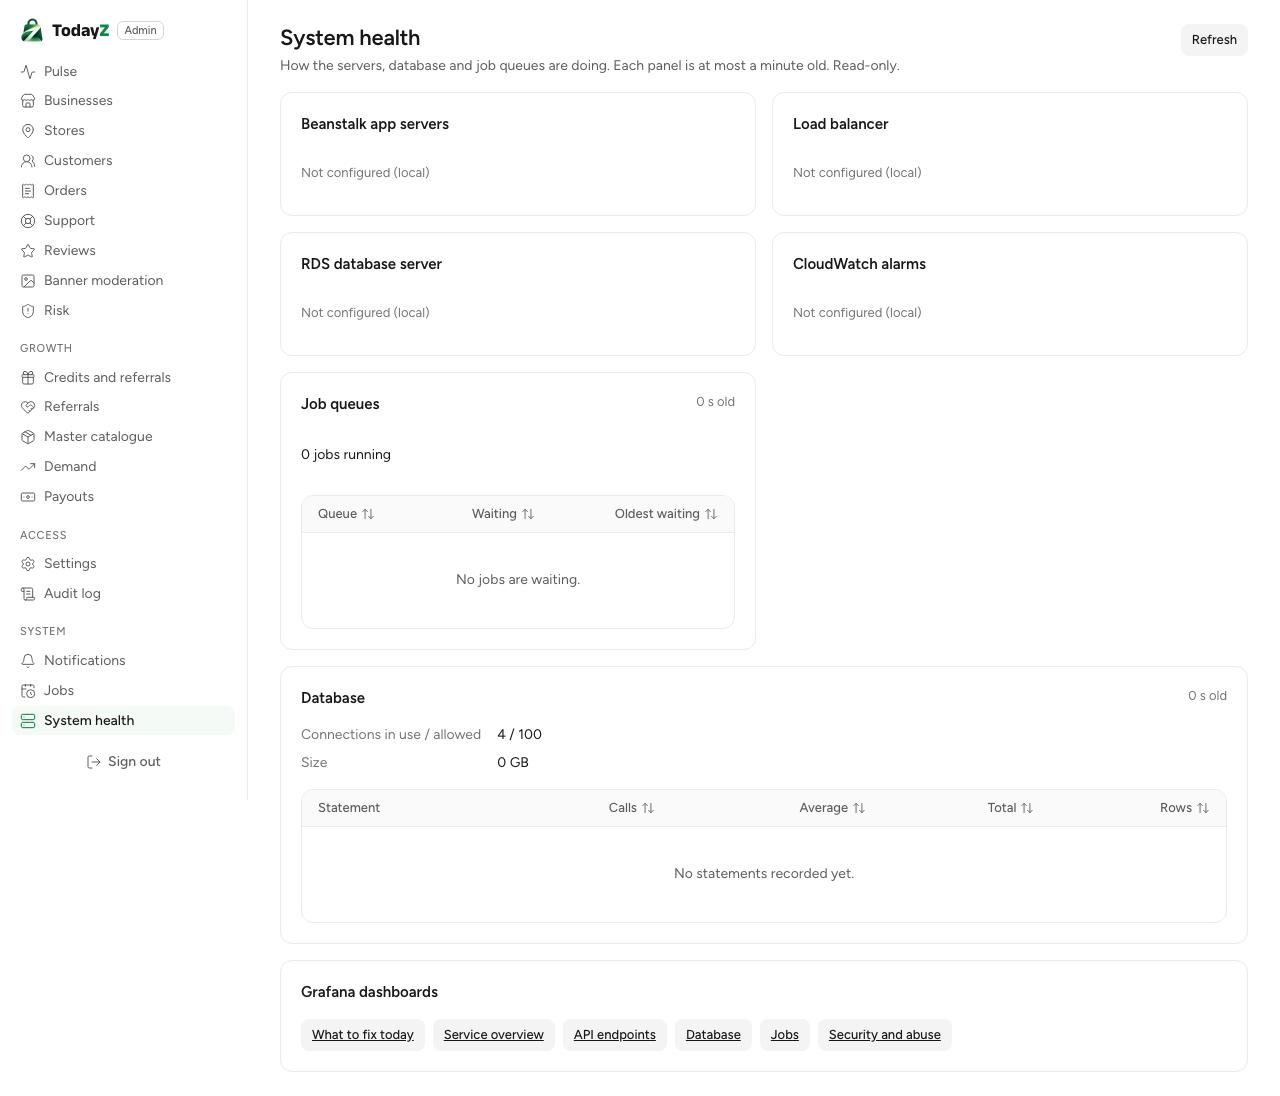
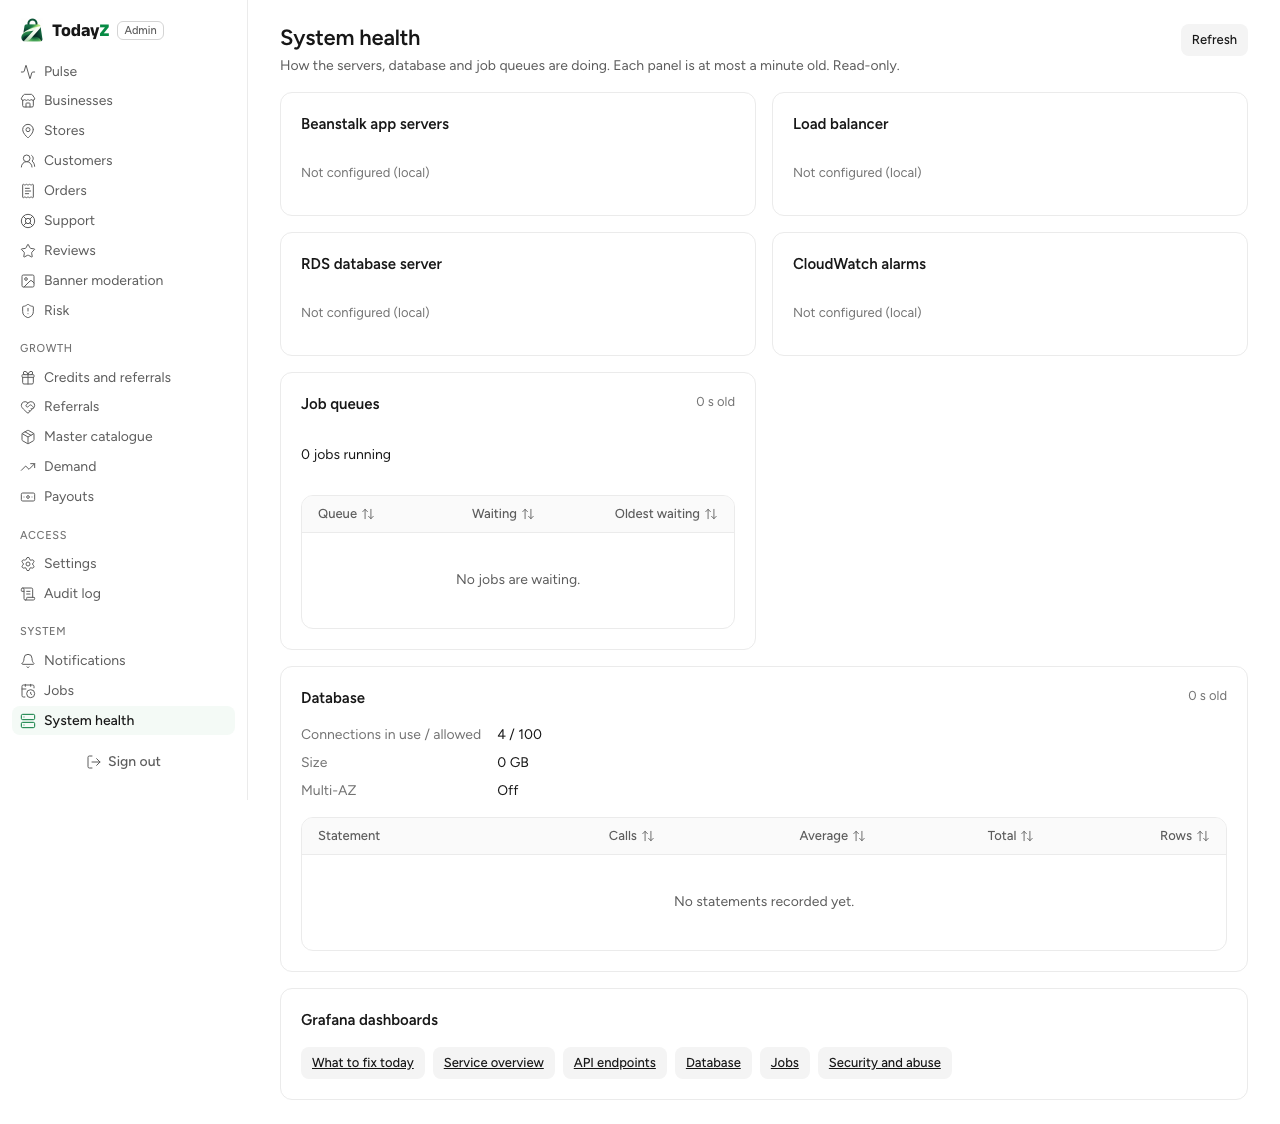
W3-15: REPORT.md; local Multi-AZ off asserted in unit and e2e (fakes now match the API)

diff --git a/admin/src/system/system.test.tsx b/admin/src/system/system.test.tsx
@@ -6,7 +6,7 @@ import { json, renderAt, type Handler } from '../test/render';
 
 const OLD = '2026-10-25T06:29:15Z';
 
-/** What `GET /v1/admin/system` answers locally: no AWS, the database and River read for real. */
+/** What `GET /v1/admin/system` answers locally: no AWS, the database and River read for real, Multi-AZ off (one server). */
 function local(over: Partial<AdminSystem> = {}): AdminSystem {
   const off = { status: 'not_configured' as const, errorClass: null, fetchedAt: NOW };
   return {
@@ -23,7 +23,7 @@ function local(over: Partial<AdminSystem> = {}): AdminSystem {
       connections: 12,
       maxConnections: 100,
       sizeBytes: 3 * 1024 ** 3,
-      multiAz: null,
+      multiAz: false,
       statementsStatus: 'ok',
       statements: [{ query: 'SELECT * FROM orders WHERE store_id = $1', calls: 1200, meanMs: 2.4, totalMs: 2880, rows: 9600 }],
     },
@@ -48,7 +48,9 @@ describe('A-22 system health', () => {
     const db = await panel('Database');
     expect(within(db).getByText('45 s old')).toBeInTheDocument();
     expect(within(db).getByText('12 / 100')).toBeInTheDocument();
-    expect(within(db).queryByText('Multi-AZ')).not.toBeInTheDocument();
+    // SC-OPS-01: off is said as a fact, not a warning.
+    expect(within(db).getByText('Multi-AZ').nextElementSibling).toHaveTextContent('Off');
+    expect(within(db).queryByRole('alert')).not.toBeInTheDocument();
     const sql = within(db).getByRole('table', { name: 'Top 10 SQL statements by total time' });
     expect(within(sql).getByText('SELECT * FROM orders WHERE store_id = $1')).toBeInTheDocument();
     expect(within(sql).getByText('1,200')).toBeInTheDocument();
@@ -122,12 +124,15 @@ describe('A-22 system health', () => {
           ...base,
           awsConfigured: true,
           rds: { ...base.rds, status: 'error', errorClass: 'AccessDenied' },
-          database: { ...base.database, statementsStatus: 'not_installed', statements: [] },
+          database: { ...base.database, multiAz: null, statementsStatus: 'not_installed', statements: [] },
         }),
       ],
     });
     expect(within(within(await panel('RDS database server')).getByRole('alert')).getByText('(AccessDenied)')).toBeInTheDocument();
-    expect(within(await panel('Database')).getByText('Top statements are off: the pg_stat_statements extension is not installed.')).toBeInTheDocument();
+    const db = await panel('Database');
+    expect(within(db).getByText('Top statements are off: the pg_stat_statements extension is not installed.')).toBeInTheDocument();
+    // With RDS unreadable the API cannot say, so the row is left out.
+    expect(within(db).queryByText('Multi-AZ')).not.toBeInTheDocument();
   });
 
   it('refreshes on Refresh', async () => {

diff --git a/admin/e2e/system.spec.ts b/admin/e2e/system.spec.ts
@@ -31,6 +31,9 @@ for (const role of ['admin', 'super_admin']) {
       await expect(main.getByRole('region', { name }).getByText('Not configured (local)')).toBeVisible();
     }
     await expect(main.getByRole('region', { name: 'Database' }).getByText('4 / 100')).toBeVisible();
+    // Multi-AZ off is a fact locally (one server), not a warning.
+    await expect(main.getByRole('region', { name: 'Database' }).getByRole('definition').filter({ hasText: /^Off$/ })).toBeVisible();
+    await expect(main.getByRole('alert')).toHaveCount(0);
     await expect(main.getByRole('region', { name: 'Job queues' })).toBeVisible();
     await expect(main.getByRole('region', { name: 'Grafana dashboards' }).getByRole('link', { name: 'Jobs' })).toHaveAttribute('href', /^https:\/\/grafana\.todayz\.localhost\//);
     if (role === 'admin') await shot(page, 'admin-a22-system.png', { fullPage: true });

diff --git a/admin/e2e/fake-api.ts b/admin/e2e/fake-api.ts
@@ -138,7 +138,7 @@ export const localSystem = {
   alb: { ...offPanel, windowMinutes: 5, requestsPerMinute: null, http5xxRateBp: null, p95Ms: null },
   rds: { ...offPanel, instances: [] },
   alarms: { ...offPanel, items: [] },
-  database: { status: 'ok', errorClass: null, fetchedAt: NOW, connections: 4, maxConnections: 100, sizeBytes: 0, multiAz: null, statementsStatus: 'ok', statements: [] },
+  database: { status: 'ok', errorClass: null, fetchedAt: NOW, connections: 4, maxConnections: 100, sizeBytes: 0, multiAz: false, statementsStatus: 'ok', statements: [] },
   river: { status: 'ok', errorClass: null, fetchedAt: NOW, running: 0, queues: [] },
   serverNow: NOW,
 };

diff --git a/docs/qa/W3-15/REPORT.md b/docs/qa/W3-15/REPORT.md
@@ -1,0 +1,137 @@
+# W3-15 Ops console: QA report
+
+A-21 Jobs and A-22 System health in the admin console, and `internal/ops` behind `GET /v1/admin/system`. Branch `claude/w3-15-ops-9027b5`, with `main` 6a2c248 merged in. Everything ran locally; nothing called AWS or any other cloud service.
+
+## What was built
+
+- **A-22 API (`internal/ops`, `GET /v1/admin/system`):**
+  - Policy `admin.system.view` (new `ops` domain and golden) allows admin and super_admin only.
+  - **AWS panels:** Beanstalk environments with their last deploys, the ALB (requests per minute, 5xx rate and p95 over the last complete 5 minutes), RDS instances, and CloudWatch alarm states.
+    - The AWS client is built only when `APP_ENV` is `staging` or `prod`. It uses an explicit EC2 instance-role (IMDSv2) provider, never the SDK default chain.
+    - In `local` and `test` there is no AWS adapter, so the panels say `not_configured` whatever `AWS_*` variables are set.
+    - The panels are cached 60 s per API instance, one fetch at a time. A failed fetch is cached too, so a broken AWS is not asked on every request.
+  - **Database panel:**
+    - Connections in use and allowed, and the database size.
+    - Multi-AZ: off locally (one server), stated as a fact. On AWS it is the RDS instance's answer when there is exactly one instance.
+    - The top 10 statements by total time from `pg_stat_statements`, guarded when the extension is missing, not preloaded or unreadable.
+  - **River panel:** jobs running, plus the depth and oldest waiting age per queue.
+  - The database and River panels are cached at most 5 s.
+  - A failing panel carries `status: error` and an error class (an AWS error code, Timeout, Credentials or Error). The other panels still render and the response stays 200.
+  - The contract is `backend/api/paths/admin-system.yaml` and `schemas/admin-system.yaml`.
+- **SC-OPS-02:** the DB test forces a slow statement through the existing `/v1/test/slow-sql?ms=500` (from `internal/telemetry`, registered in the test), then reads it back from the top-10 panel.
+- **A-21 Jobs (`admin/src/jobs/`, routes `admin/src/routes/jobs/`).** Built on W1-11's existing admin-jobs API, with no backend change to it.
+  - **List:**
+    - The status badge (OK, Failing, Missed, Paused) sits next to the job name, so it shows without scrolling.
+    - IST schedule text such as "Every day at 6:00 am" and "Every Monday at 9:00 am", the same shapes as the API's `scheduleText`.
+    - "On events" for event kinds.
+    - Next and last run, 7-day success rate, and average and longest duration.
+    - Class and status filters live in the URL.
+  - **Kind page:**
+    - About this job: owner, schedule, limits and runbook.
+    - Run history, filtered by status, trigger and date.
+    - **Run detail:**
+      - counts and the note;
+      - the error with personal data removed by the API;
+      - every attempt;
+      - Grafana Explore links for logs and trace (±5 min).
+  - **Actions:** Run now (with an optional period key), Pause, Resume and Retry.
+    - Each takes a reason, sends an `Idempotency-Key` and is audited.
+    - Two audit panels, "Changes to this job" and "Changes to this run".
+  - **Who sees the buttons** (`gate.ts`):
+    - `timer` kinds show none, only the note "Order timers can't be paused or run by hand."
+    - `money` kinds show them to super_admin only. A 403 `step_up_required` opens the authenticator dialog and the action is retried. admin sees why there are no buttons.
+    - Read-only roles see none: support, analyst, and finance (which sees `money` kinds only).
+- **A-22 page (`admin/src/system/`):**
+  - admin and super_admin only. The sidebar entry and its role rule were already there from W3-05.
+  - One panel per area, each with its age ("45 s old").
+  - Refresh button.
+  - Grafana dashboard links.
+  - Locally the four AWS panels read "Not configured (local)".
+- **Audit:** `job_kind` and `job_run` are audit subjects (the `admin-audit.yaml` enum, `internal/admin/audit.go`), viewable by the roles that may act on a job (`AdminAuditView`).
+
+## Evidence
+
+All of these ran on the merged tree (`main` 6a2c248 merged in).
+
+| Command | Result |
+|---|---|
+| `make gen` | exit 0 |
+| `go test -race -count=1 ./internal/ops/...` (own Postgres container with `pg_stat_statements` preloaded; Colima's Docker socket) | ok. 16 tests: SC-OPS-01, 02, 03 (role gate), 04, 08 and 09 (no client off AWS even with `AWS_*` set; instance role only on AWS) |
+| `go test -race` on `internal/admin`, `internal/platform/authz/...`, `internal/platform/jobs/adminapi`, `internal/platform/telemetry`, `cmd/todayz` (shared test Postgres via `TODAYZ_TEST_PG_URL_FILE`) | all ok. `adminapi` covers SC-OPS-07's API half: catalogue and field_agent get 403 on the jobs API |
+| `golangci-lint run ./...` (backend) | 0 issues |
+| `gosec ./internal/ops/...`, `gofmt -l` | quiet, clean |
+| `infra/terraform/checks/check.py iam …/api-ops-readonly.json` and its 24 tests | ok (SC-OPS-05 is W1-10's check). Every AWS call in `internal/ops` is in that policy: `elasticbeanstalk:Describe*`, `cloudwatch:GetMetricData`, `cloudwatch:DescribeAlarms`, `rds:DescribeDBInstances` |
+| admin `typecheck`, `lint`, `lint:css` | clean |
+| admin `test` (vitest) | 26 files, 254 tests passed. W3-15 adds 34 (jobs) and 11 (system) |
+| `pnpm -C shared/i18n exec vitest run` | 198 passed |
+| admin `build:e2e` (what `make check` builds) | ok. Precache and dist checks pass |
+| admin `size` | initial JS 166.7 kB gzip (budget 250 kB); CSS 9.7 kB |
+| `playwright test e2e/jobs.spec.ts e2e/system.spec.ts e2e/roles.spec.ts` | 23 passed: SC-OPS-01, 03, 06 and 07 per role, plus AD-02 with the A-22 read gate |
+| `playwright test` (whole admin suite) | 42 passed |
+
+**SC-OPS coverage**
+
+| Test | Where |
+|---|---|
+| SC-OPS-01 | `ops/db_test.go` TestLocalPanels; `system.test.tsx`; `e2e/system.spec.ts` (Not configured (local), Multi-AZ "Off" with no alert) |
+| SC-OPS-02 | `ops/db_test.go` TestTopStatements: a slow query through `/v1/test/slow-sql`, then listed with calls and mean time, with no literal in the text |
+| SC-OPS-03 | `ops/ops_test.go` TestRoleGate and `ops.golden`; `system.test.tsx`; `e2e/system.spec.ts` (sidebar and URL visit for 5 roles) |
+| SC-OPS-04 | `ops/ops_test.go` TestAWSCache (one fetch within 60 s, a second at 61 s) and TestAWSCacheIsOneFetchAtATime; `db_test.go` TestRiverPanelAndCache (5 s) |
+| SC-OPS-05 | W1-10's `infra/terraform/checks/check.py iam`, rerun here |
+| SC-OPS-06 | `jobs.test.tsx`; `e2e/jobs.spec.ts` (badges, "Every day at 6:00 am", class and status filters narrow the list) |
+| SC-OPS-07 | `jobs.test.tsx` (`jobGate` table, step-up retry); `e2e/jobs.spec.ts` (admin, super_admin, support, analyst, finance, timer); `e2e/roles.spec.ts` (catalogue and field_agent have no Jobs); `adminapi` tests (403) |
+| SC-OPS-08 | `ops/ops_test.go` TestOnePanelFailing (CloudWatch AccessDenied gives an error class, the other panels stand, 200); `system.test.tsx` shows "(AccessDenied)" |
+| SC-OPS-09 | `ops/ops_test.go` TestNoAWSClientOutsideStagingAndProd and TestDeployedClientUsesTheInstanceRoleOnly. The `proc.sh` half (no `AWS_*` in the API and worker environment) is W0-03b's `infra/local/test/proc-test.sh` and was not rerun here |
+
+## Screenshots
+
+In `docs/qa/W3-15/`, at desktop 1280×800, written by Playwright with `TZ_QA_DIR`:
+
+- `admin-a21-jobs.png`: the list with OK, Failing, Missed and Paused.
+- `admin-a21-kind.png`: a kind with a run open, Grafana links and both audit panels.
+- `admin-a21-run-now.png`: the Run now dialog refusing a badly formatted period.
+- `admin-a21-money-admin.png`: a money job seen by admin (the note, no buttons).
+- `admin-a21-timer.png`: an order timer (the note, no buttons).
+- `admin-a21-support-readonly.png`: support, read-only.
+- `admin-a22-system.png`: A-22 locally.
+- `admin-a22-no-access-support.png`: support visiting `/system`.
+
+## Conservative readings (recorded, not asked)
+
+1. **Grafana in production:** a production build without `VITE_GRAFANA_URL` leaves the Grafana links out. It does not point them at a guess.
+2. **Statements shown:** only data and DML statements are listed. Postgres normalises their literals to `$n`; utility statements (SET, CREATE, …) are stored as written and could hold a value.
+3. **Failed AWS fetches are cached 60 s** like good ones, so a broken permission is not retried on every page load.
+4. **Deploy outcome:** read from Beanstalk's fixed event phrases ("Environment update completed successfully", "Failed to deploy application", …). Any other event is not counted as a deploy.
+5. **Multi-AZ on AWS:** shown only when RDS answered and there is exactly one instance. Otherwise the row is left out rather than guessed.
+6. **Job history panels:** visible to `AdminAuditView` (admin and super_admin), the roles that may act on a job. support, analyst and finance read A-21 without the history panels.
+
+## Questions for the lead
+
+1. **`VITE_GRAFANA_URL` for prod:** what is the Grafana URL? Without it A-21 shows "Grafana links are off in this build." and A-22 has no dashboard links.
+2. **RDS role for top statements:** on RDS the API's database role needs `pg_read_all_stats` to see other roles' statements, and `pg_stat_statements` must be in the parameter group's `shared_preload_libraries`. Both are W1-10 or a migration owner's call. Without them the panel says why top statements are off.
+3. **`DescribeEnvironmentResources` permissions:** Beanstalk may also require read permissions on the resources underneath (Auto Scaling, CloudFormation, ELB describe calls). If prod shows the Beanstalk panel as `AccessDenied`, W1-10's policy needs those reads. Not verifiable without AWS.
+4. **Performance Insights is unused:** W1-10's policy grants `pi:GetResourceMetrics` and `pi:DescribeDimensionKeys`, but the top-10 panel reads `pg_stat_statements` instead. Should the policy keep the `pi:*` grant?
+5. **Test import across packages:** `internal/ops`'s DB test imports `internal/telemetry` to mount `/v1/test/slow-sql` (test code only). Is that acceptable, or should the slow-SQL helper move to `testkit`?
+6. **Job history for read-only roles:** should support, analyst and finance see the job and run audit panels? They are hidden for now (reading 6 above).
+
+## Not verified
+
+- Anything against real AWS: IMDS credentials, the real Beanstalk, ALB, RDS and CloudWatch answers, and the IAM policy in practice. The adapter is faked in unit tests.
+- A-21 and A-22 against the live local stack (`make dev`). Per the brief, Playwright ran against the built bundle with the API faked, and the Go tests ran against test Postgres.
+- The admin production `build` stops at the Turnstile guard: `VITE_TURNSTILE_SITE_KEY` must be a real key in production mode. This predates W3-15, and `make check` uses `build:e2e`, which passed.
+- The `proc.sh` half of SC-OPS-09 (W0-03b's test) was not rerun.
+- **Environment note:** `internal/ops`'s DB tests start their own Postgres container, because the shared server may lack `pg_stat_statements` in `shared_preload_libraries`. So they need Docker. Here that meant `DOCKER_HOST` pointing at Colima's socket.
+
+## Files changed outside the owned paths
+
+- **`admin/src/shell/nav.ts`:** `jobs` and `system` added to `BUILT_SECTIONS`; the entries were already there. **`admin/src/app/nav/access.ts`:** the action rules `jobAct` (admins) and `jobMoneyAct` (super_admin); the section rules were already there.
+- **`admin/src/app/env.ts`:** `GRAFANA_URL`.
+- **`admin/src/audit/AuditPanel.tsx`:** an optional `title` prop, so the kind page can name its two panels. Other screens are unchanged.
+- **`admin/src/audit/labels.ts` and `shared/i18n/messages/admin/audit.en.json`:** labels for the `jobs.*` actions and the two subjects.
+- **`admin/e2e/fake-api.ts`:** `localSystem`, the A-22 answer in `answerEmptyLists`. **`admin/e2e/roles.spec.ts`:** the READS entry for `/v1/admin/system`.
+- **`backend/api/schemas/admin-audit.yaml`:** `job_kind` and `job_run` added to the subject enum. **`backend/internal/admin/audit.go` and `admin_test.go`:** their view policy.
+- **`backend/cmd/todayz/routes_admin.go`:** mounts `internal/ops`.
+- **`backend/internal/platform/authz/policy/ops.go` and `testdata/ops.golden`:** the new `ops` domain.
+- **`backend/internal/testkit/testkit.go` and `scripts/testpg.sh`:** start Postgres with `shared_preload_libraries=pg_stat_statements`. Other packages are unaffected; the shared server needs a restart (`make testpg-up` after it is stopped) to pick this up.
+- **`backend/go.mod`:** the AWS SDK modules were pinned by the lead in 006d394 (D-227); W3-15 made no change to it.
+- **`admin/CLAUDE.md`, `backend/CLAUDE.md`:** W3-15 status lines.
